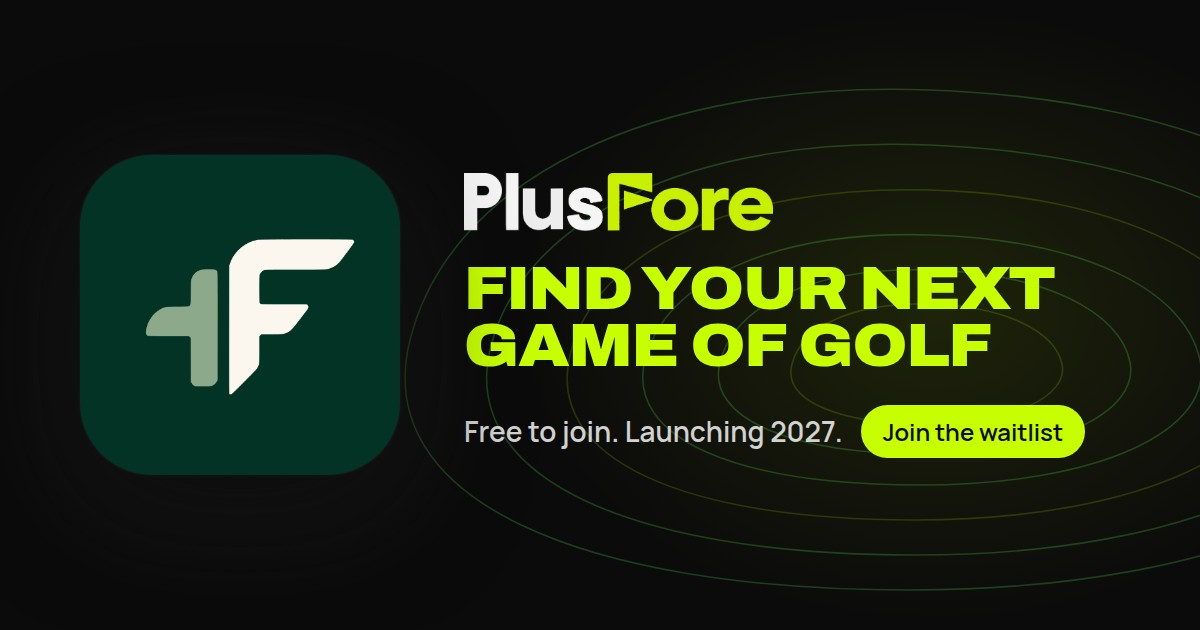
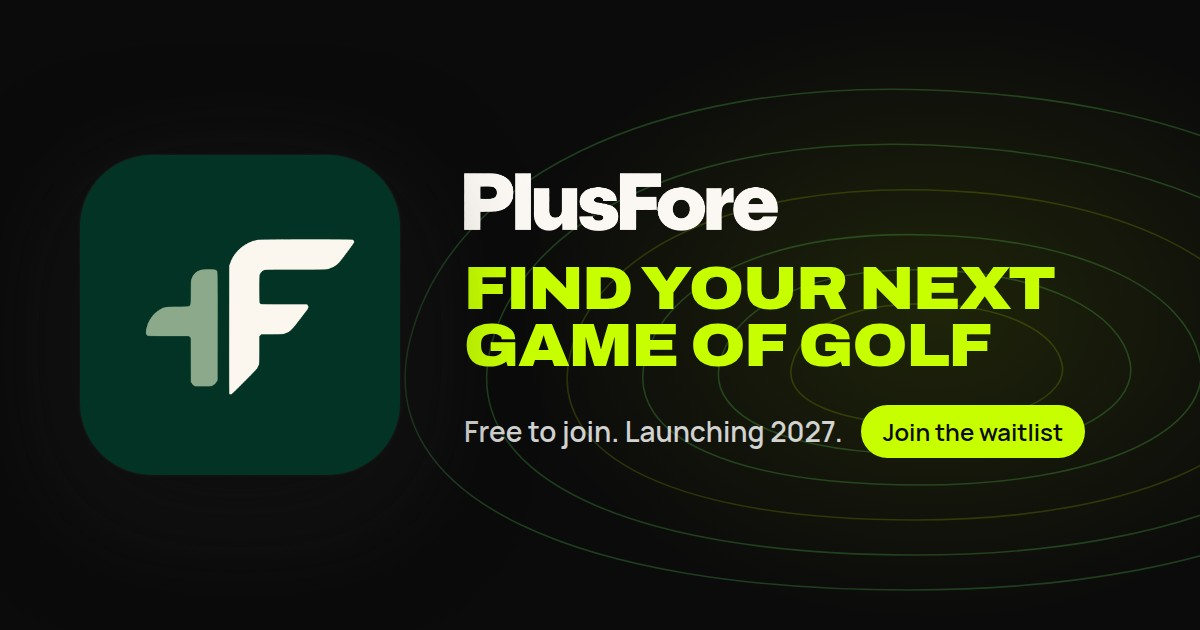
Intro animation and wordmark follow the new PlusFore lockup
The cream PlusFore lettering from the lockup replaces the old lime
flag wordmark in the app (splash, welcome) and on the landing page
(nav, footer, sharing image). The splash sets the mark and word in the
lockup's proportions and spacing, with the mark nudged right as drawn.

Claude-Session: https://claude.ai/code/session_0186iCJnr9FDdGqNsvV67zBT

Changed region(s): [[0.37, 0.2714, 0.6475, 0.3921]]

diff --git a/findfore-app/src/components/launch-splash.tsx b/findfore-app/src/components/launch-splash.tsx
@@ -13,8 +13,8 @@ import { colors } from '@/constants/theme';
 const F_W = 112;
 const F_H = F_W / MARK_RATIO;
 
-// The mark and the wordmark below it read as one group, so the F sits this far above true centre
-const LIFT = 48;
+// The mark and the wordmark below it read as one group (as in the brand lockup), so the mark sits this far above true centre
+const LIFT = 34;
 
 const native = Platform.OS !== 'web';
 
@@ -165,7 +165,8 @@ export function LaunchSplash({ ready, onDone }: { ready: boolean; onDone: () => 
 
 const s = StyleSheet.create({
   root: { backgroundColor: colors.ink, alignItems: 'center', justifyContent: 'center', paddingBottom: LIFT * 2, zIndex: 100 },
-  mark: { width: F_W, height: F_H },
-  words: { position: 'absolute', top: '50%', marginTop: F_H / 2 + 34 - LIFT, left: 0, right: 0, alignItems: 'center' },
-  logo: { width: 150, height: 28 },
+  // in the lockup the mark sits a touch right of the word's centre; marginLeft moves it half this much
+  mark: { width: F_W, height: F_H, marginLeft: 11 },
+  words: { position: 'absolute', top: '50%', marginTop: F_H / 2 + 8 - LIFT, left: 0, right: 0, alignItems: 'center' },
+  logo: { width: 168, height: 31 },
 });

diff --git a/findfore-app/public/index.html b/findfore-app/public/index.html
@@ -45,10 +45,10 @@
         display: flex;
         align-items: center;
         justify-content: center;
-        padding-bottom: 96px;
+        padding-bottom: 68px;
         background: #0b0b0b;
       }
-      #boot svg { width: 112px; height: 83.46px; overflow: visible; }
+      #boot svg { width: 112px; height: 83.46px; margin-left: 11px; overflow: visible; }
       #boot .stem { animation: boot-rise 1040ms cubic-bezier(0.2, 0.8, 0.2, 1) both; transform-box: fill-box; transform-origin: 50% 100%; }
       #boot .tri {
         transform-box: fill-box;
